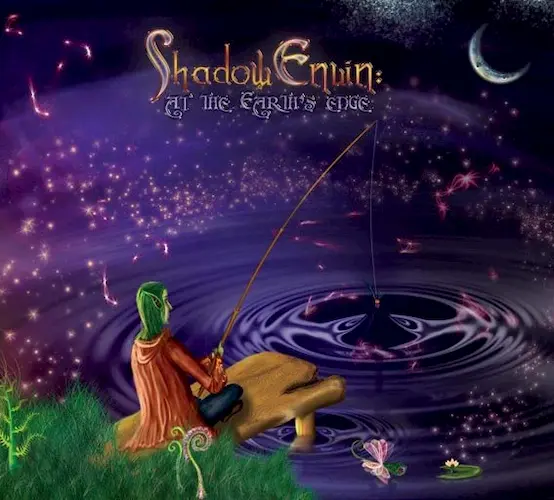
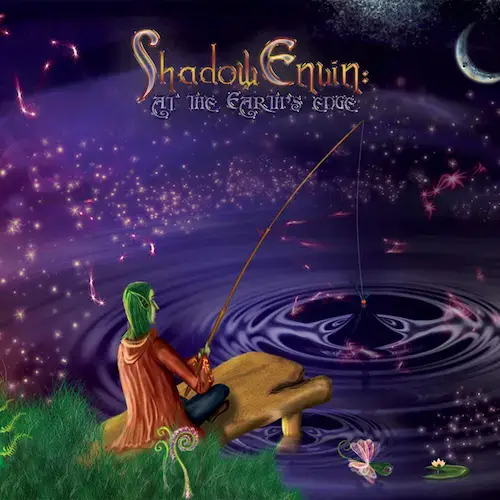
cover zoom

diff --git a/src/app/release/release.component.scss b/src/app/release/release.component.scss
@@ -11,15 +11,15 @@
 	margin: 0 1rem 0.75rem 0;
 	box-shadow: $brand-border;
 
-	@supports (margin-inline-end: 0) {
-		margin-right: 0;
-		margin-inline-end: 1rem;
-	}
+	// @supports (margin-inline-end: 0) {
+	// 	margin-right: 0;
+	// 	margin-inline-end: 1rem;
+	// }
 
-	@supports (margin-block-end: 0) {
-		margin-bottom: 0;
-		margin-block-end: 0.75rem;
-	}
+	// @supports (margin-block-end: 0) {
+	// 	margin-bottom: 0;
+	// 	margin-block-end: 0.75rem;
+	// }
 }
 
 .release-actions {
@@ -172,4 +172,92 @@
 		margin-top: 0;
 		padding: 1rem;
 	}
+}
+
+// Cover modal styles
+.cover-container {
+	cursor: pointer;
+	transition: transform 0.3s ease;
+
+	&:hover {
+		transform: scale(1.02);
+	}
+}
+
+@keyframes zoomIn {
+	from {
+		opacity: 0;
+		transform: scale(0.8);
+	}
+	to {
+		opacity: 1;
+		transform: scale(1);
+	}
+}
+
+@keyframes fadeIn {
+	from {
+		opacity: 0;
+	}
+	to {
+		opacity: 1;
+	}
+}
+
+::ng-deep .cover-modal {
+	position: fixed;
+	inset: 0;
+	background-color: rgba(0, 0, 0, 0.85);
+	display: flex;
+	align-items: center;
+	justify-content: center;
+	z-index: 1000;
+	animation: fadeIn 0.3s ease;
+	padding: 1rem;
+
+	&__content {
+		position: relative;
+		max-width: 80vh;
+		max-height: 80vh;
+		animation: zoomIn 0.4s ease;
+	}
+
+	&__close {
+		position: absolute;
+		top: -40px;
+		right: -40px;
+		background: none;
+		border: none;
+		color: white;
+		font-size: 32px;
+		cursor: pointer;
+		padding: 8px;
+		display: flex;
+		align-items: center;
+		justify-content: center;
+		transition: color 0.2s ease;
+
+		&:hover {
+			color: #ddd;
+		}
+
+		@include tablet {
+			right: -8px;
+		}
+
+		@include mobile {
+			top: -35px;
+			right: -8px;
+			font-size: 28px;
+		}
+	}
+}
+
+::ng-deep .release-cover-zoom {
+	max-width: 100%;
+	max-height: 100%;
+	height: 1000px;
+	width: 1000px;
+	box-shadow: $brand-border;
+
 }

diff --git a/src/app/release/release.component.html b/src/app/release/release.component.html
@@ -7,7 +7,9 @@
       <span class="fas fa-share fa-2x"></span>
     </a> -->
 
-    <app-picture [cover]="release().releaseCover" [class]="'release-cover'" [imageFolder]="'release-cover/'"></app-picture>
+    <div class="cover-container" (click)="toggleCoverModal()">
+      <app-picture [cover]="release().releaseCover" [class]="'release-cover'" [imageFolder]="'release-cover/'"></app-picture>
+    </div>
 
     <a class="s-go-back" routerLink="/releases">
       <i class="fas fa-long-arrow-alt-left"></i>Go to Releases page
@@ -142,6 +144,17 @@
     </div>
   }
 </div>
+}
+
+@if (coverModalOpen()) {
+  <div class="cover-modal" (click)="toggleCoverModal()">
+    <div class="cover-modal__content" (click)="$event.stopPropagation()">
+      <button class="cover-modal__close" (click)="toggleCoverModal()" aria-label="Close modal">
+        <i class="fas fa-times"></i>
+      </button>
+      <app-picture [cover]="release().releaseCover" [class]="'release-cover-zoom'" [imageFolder]="'release-cover/'"></app-picture>
+    </div>
+  </div>
 }
 
 <div class="catalog">

diff --git a/src/app/release/release.component.ts b/src/app/release/release.component.ts
@@ -71,6 +71,8 @@ export class ReleaseComponent {
 		return this.allArtists().filter(a => release.artists.includes(a.artistName));
 	});
 
+	coverModalOpen = signal<boolean>(false);
+
 	constructor() {
 		effect(() => {
 			if (
@@ -89,6 +91,10 @@ export class ReleaseComponent {
 
 	shareOnFacebook(): void {
 		window.open('https://www.facebook.com/sharer.php?u=' + encodeURIComponent('https://www.moonkoradji.com/releases/' + this.release().releaseRoute), '_blank');
+	}
+
+	toggleCoverModal(): void {
+		this.coverModalOpen.set(!this.coverModalOpen());
 	}
 
 	setMetaData(release: Release): void {
